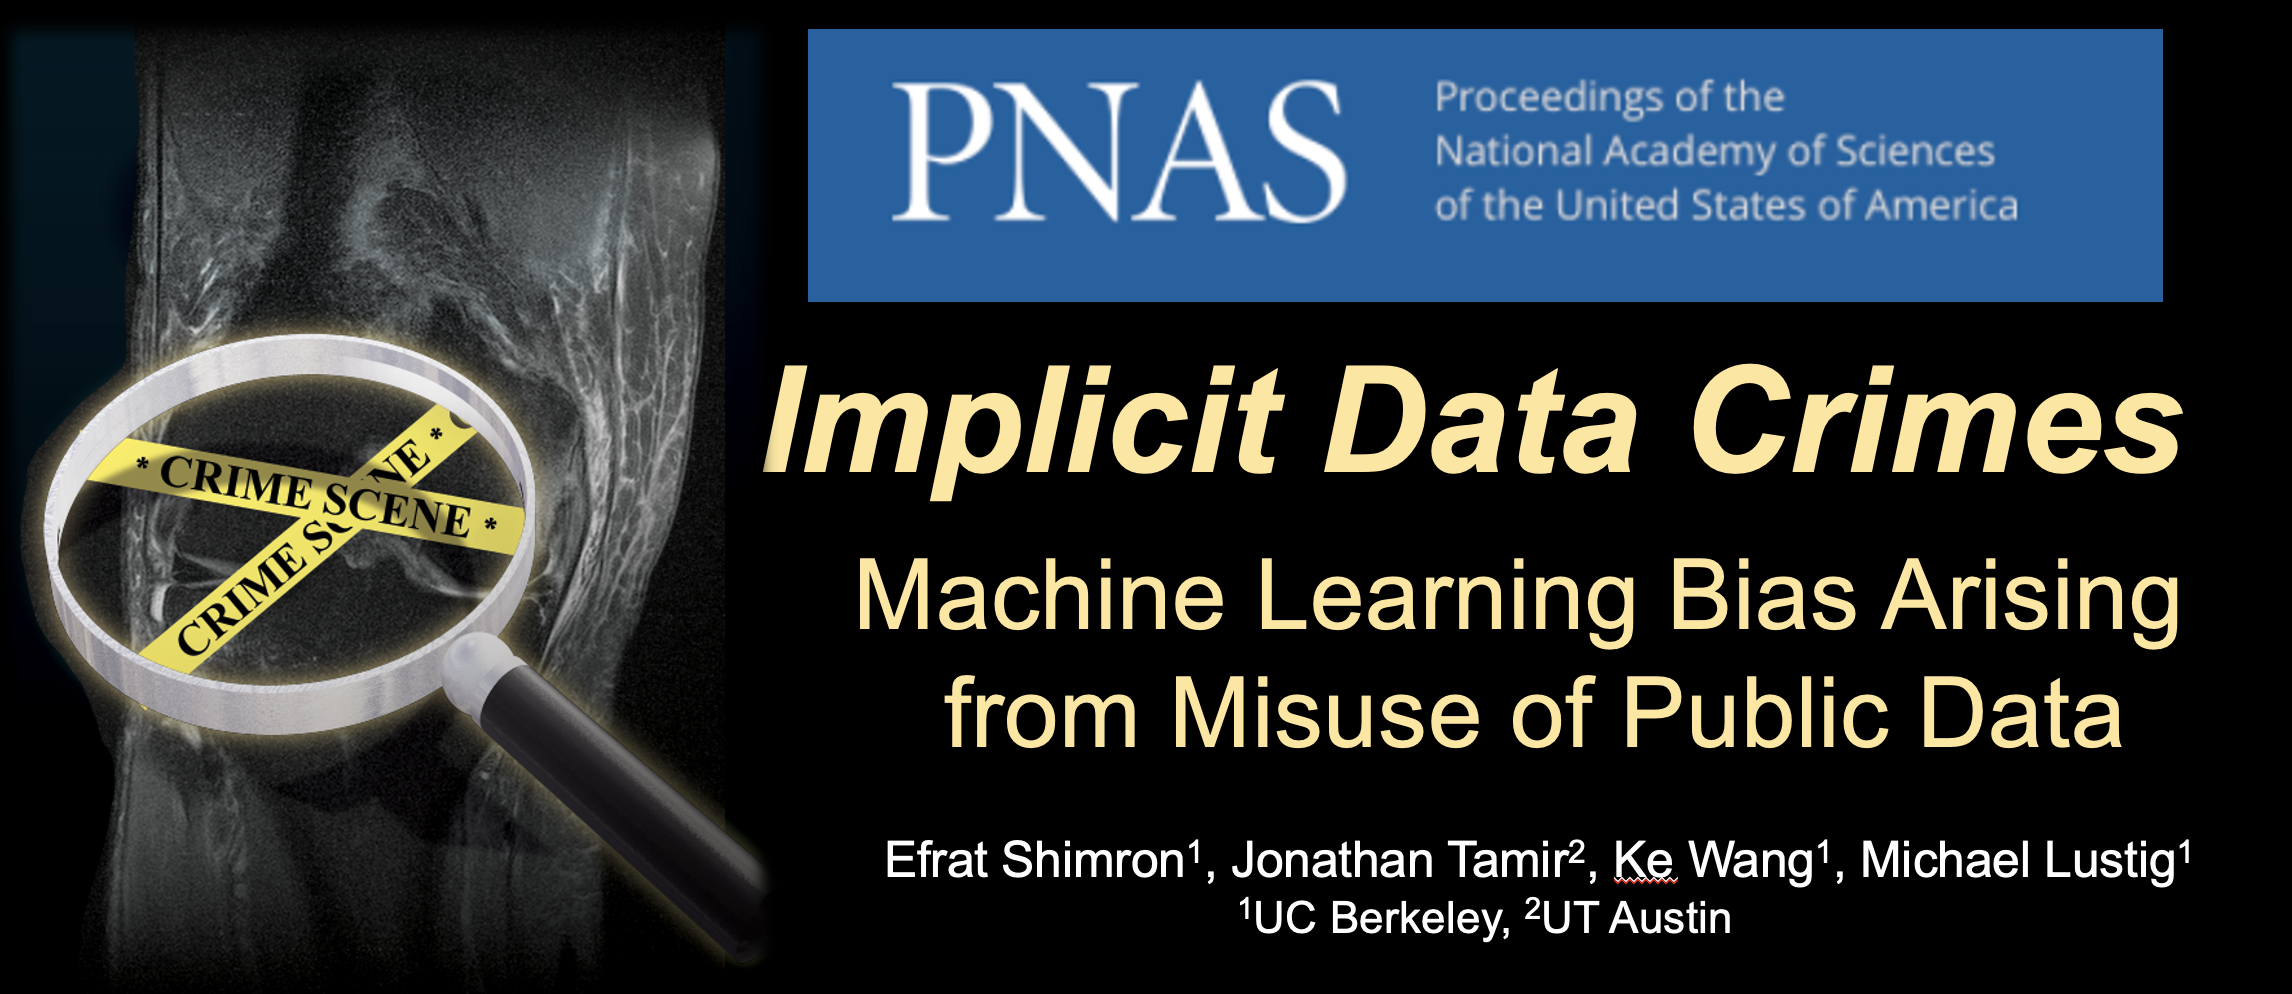
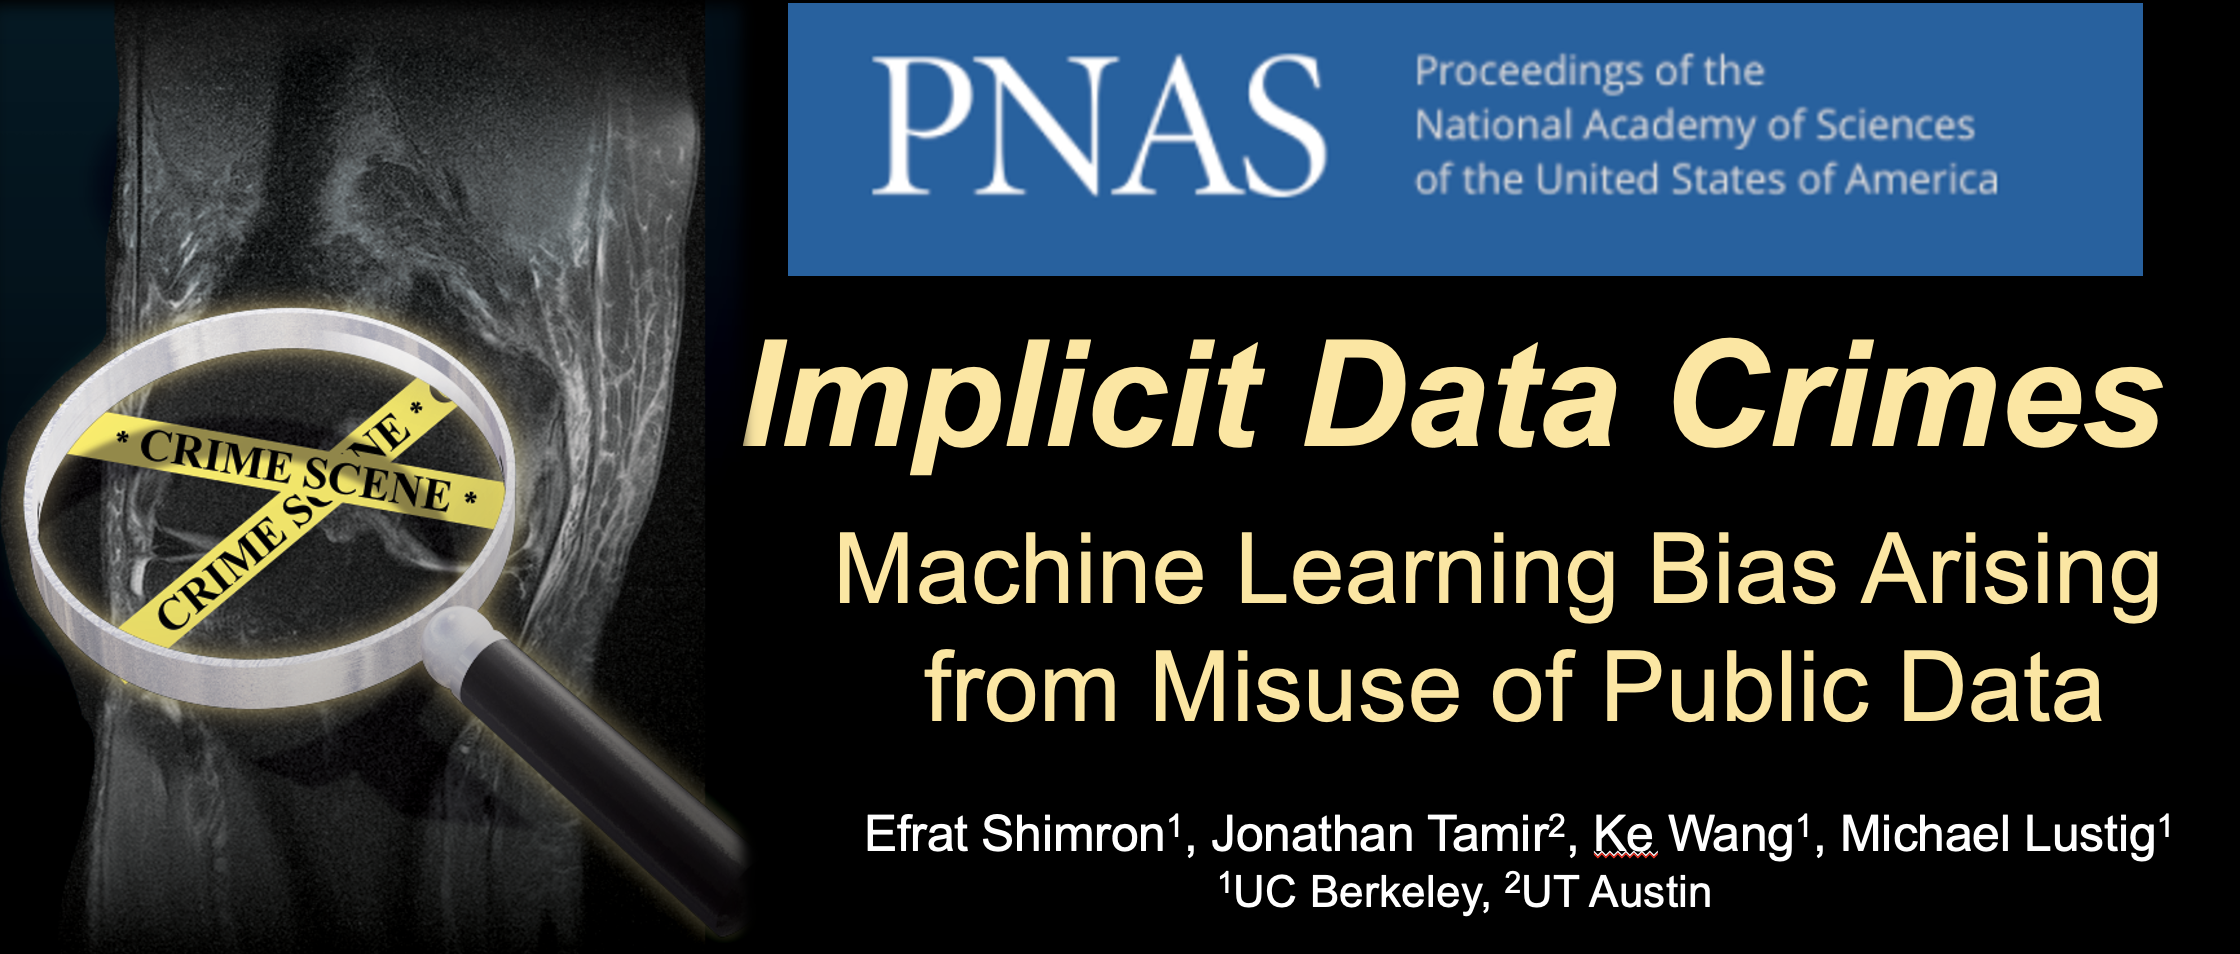
updated README and png image

diff --git a/README.md b/README.md
@@ -7,7 +7,7 @@ Here's the arXiv preprint
 [Subtle data crimes: naively training machine learning algorithms could lead to overly-optimistic results](https://arxiv.org/abs/2109.08237)
 and [ISMRM 2021 abstract](https://index.mirasmart.com/ISMRM2021/PDFfiles/0222.html).
 
-![subtle_fig_1](logo_arXiv_paper.png)
+![subtle_fig_1](data_crimes_PNAS.png)
 
 ### Notice: this repo is still under construction!
 It will be finalized soon(last update: Feb 7, 2022).
